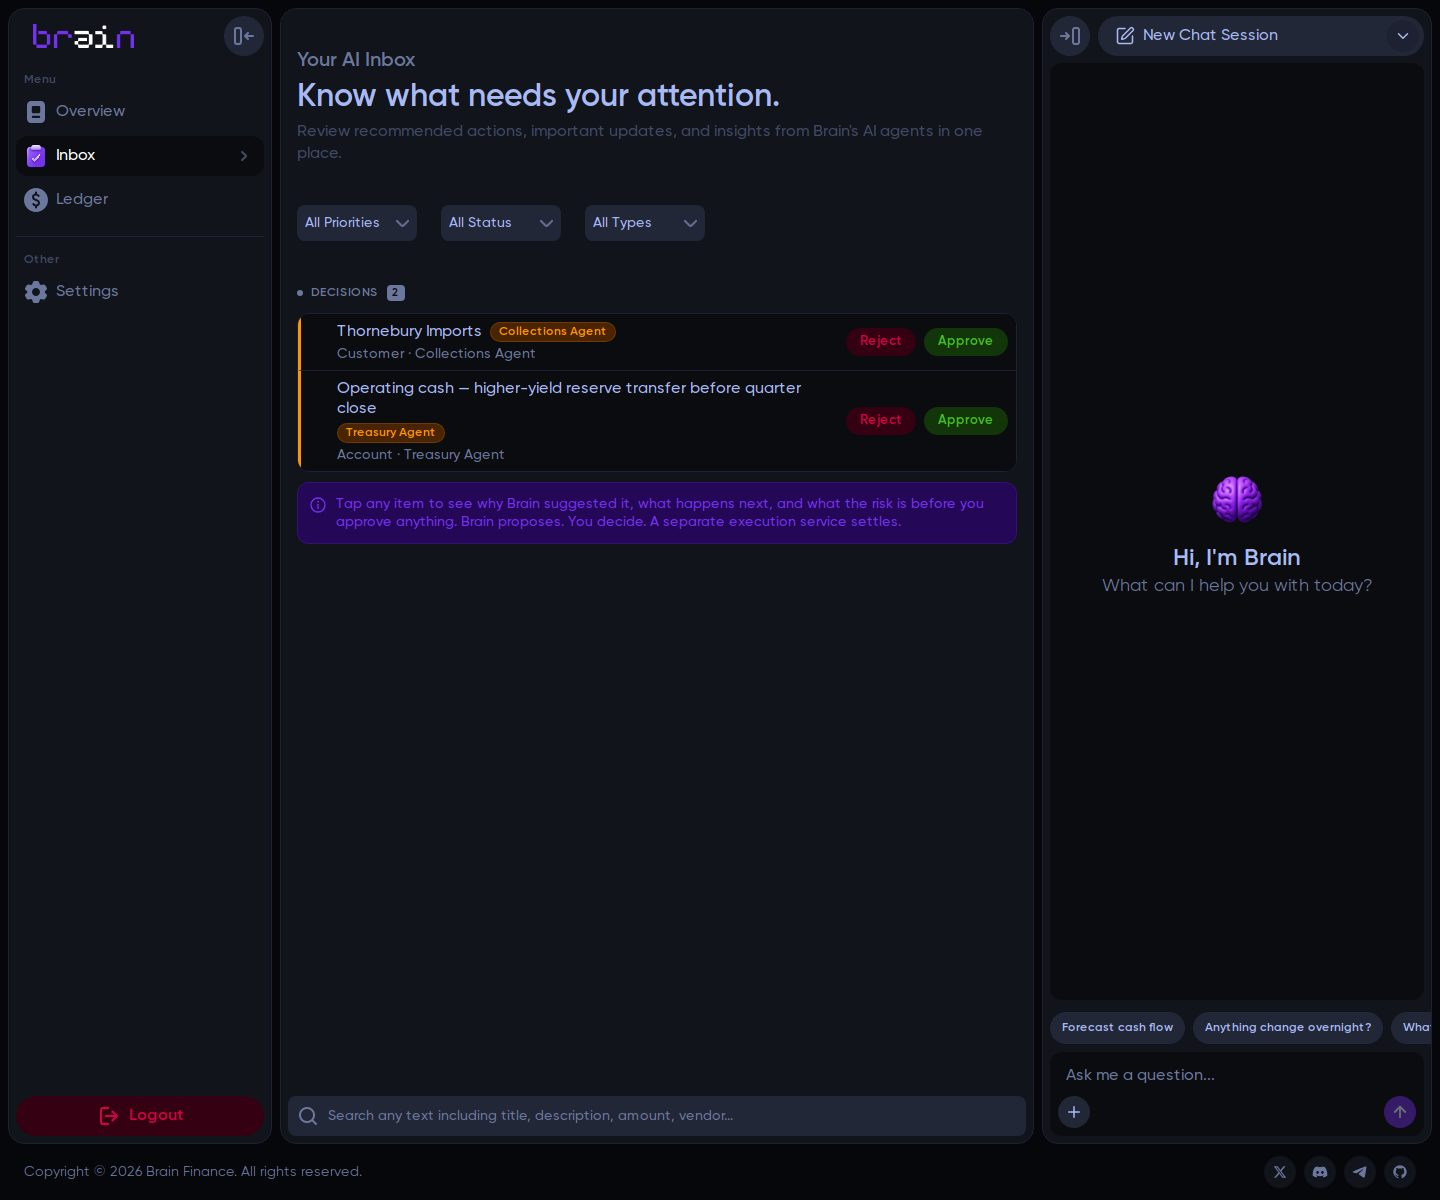
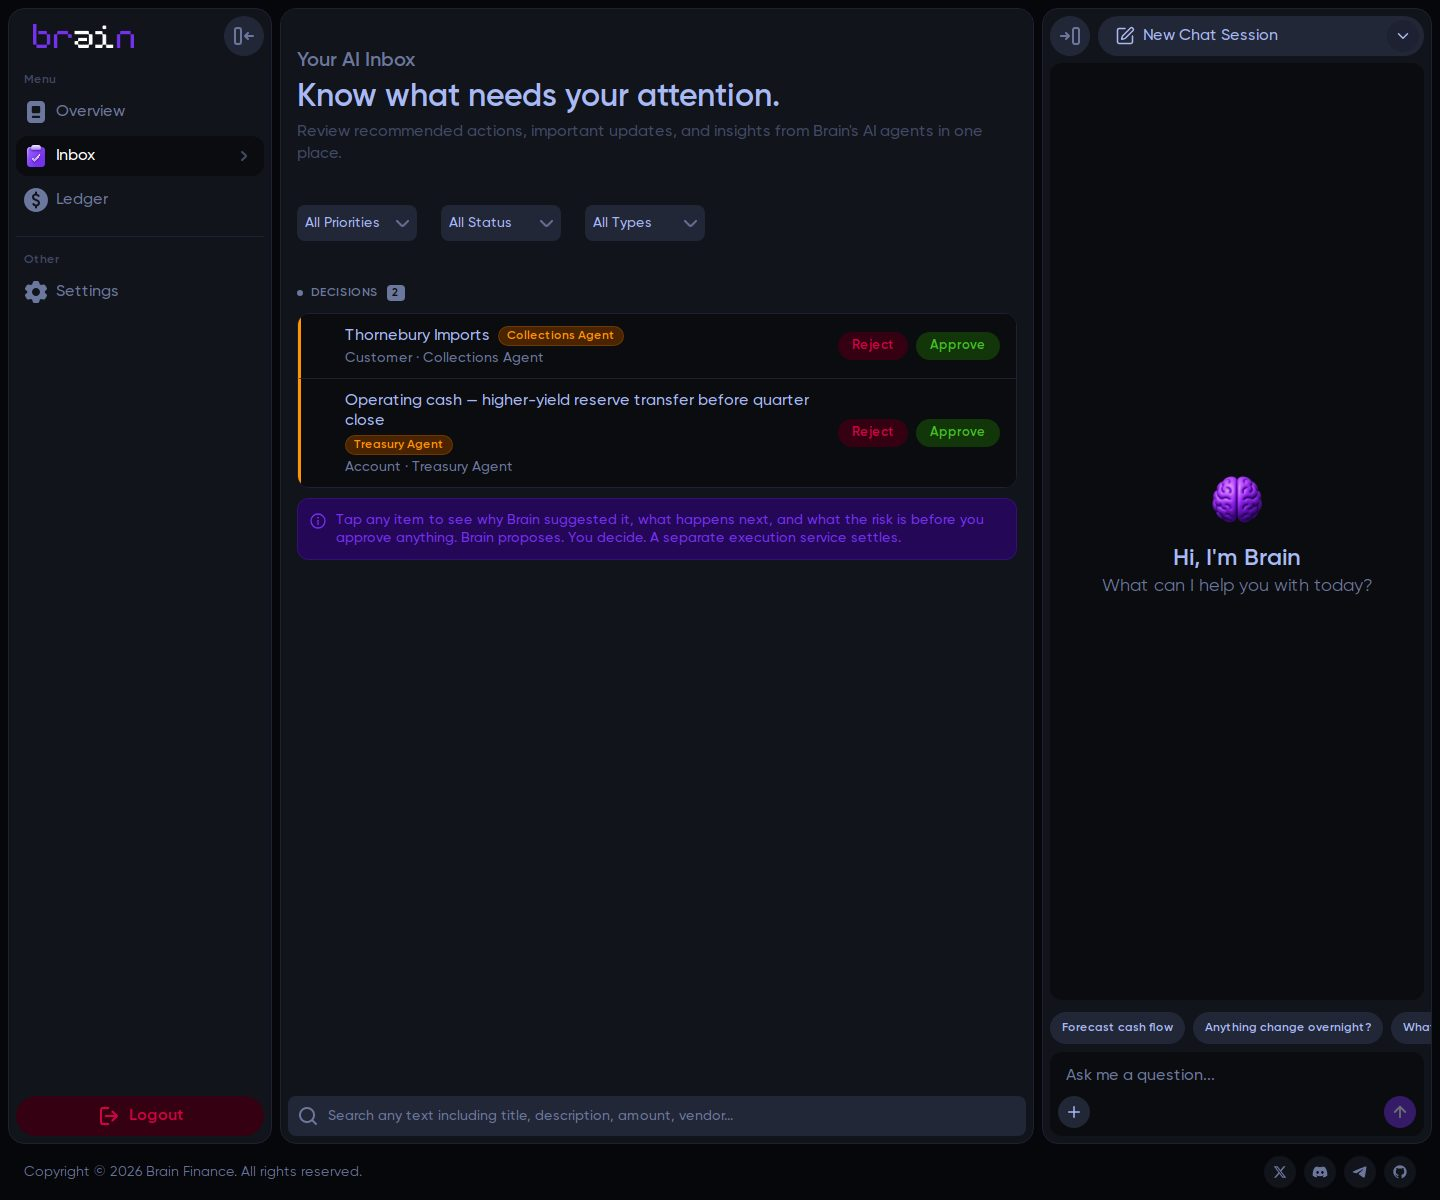
Implement row record type updates and update QA measurement script
Replit-Commit-Author: Agent

Changed region(s): [[0.1875, 0.2467, 0.7188, 0.4933], [0.5625, 0.2467, 0.7188, 0.3083]]

diff --git a/client/src/pages/RulesPanel.tsx b/client/src/pages/RulesPanel.tsx
@@ -124,7 +124,7 @@ function Section({
     <div className="bg-[#0a0c10] flex flex-col overflow-hidden relative rounded-[16px] w-full">
       <div className="flex flex-col items-start relative w-full">
         {count === 0 && empty ? (
-          <div className="flex gap-[16px] items-center p-[8px] relative rounded-[8px] shrink-0 w-full">
+          <div className="flex gap-[12px] items-center px-[16px] py-[12px] relative rounded-[8px] shrink-0 w-full">
             {empty}
           </div>
         ) : (
@@ -145,7 +145,7 @@ function AutomationRow({ rule }: { rule: AutoRule }) {
   return (
     <div
       data-testid={`row-automation-${rule.id}`}
-      className="flex gap-[16px] items-center p-[8px] relative shrink-0 w-full bg-[#0a0c10] transition-colors border-b border-solid border-[#1d2132] last:border-b-0 hover:bg-[#11141b] cursor-pointer"
+      className="flex gap-[12px] items-center px-[16px] py-[12px] relative shrink-0 w-full bg-[#0a0c10] transition-colors border-b border-solid border-[#1d2132] last:border-b-0 hover:bg-[#11141b] cursor-pointer"
     >
       <button
         type="button"
@@ -188,7 +188,7 @@ function GuardrailRow({ rule }: { rule: AutoRule }) {
   return (
     <div
       data-testid={`row-guardrail-${rule.id}`}
-      className="flex gap-[16px] items-center p-[8px] relative shrink-0 w-full bg-[#0a0c10] transition-colors border-b border-solid border-[#1d2132] last:border-b-0 hover:bg-[#11141b] cursor-pointer"
+      className="flex gap-[12px] items-center px-[16px] py-[12px] relative shrink-0 w-full bg-[#0a0c10] transition-colors border-b border-solid border-[#1d2132] last:border-b-0 hover:bg-[#11141b] cursor-pointer"
     >
       <button
         type="button"
@@ -232,7 +232,7 @@ function AlwaysOnRow({ rule }: { rule: AutoRule }) {
   return (
     <div
       data-testid={`row-alwayson-${rule.id}`}
-      className="flex gap-[16px] items-center p-[8px] relative shrink-0 w-full bg-[#0a0c10] transition-colors border-b border-solid border-[#1d2132] last:border-b-0 hover:bg-[#11141b] cursor-pointer"
+      className="flex gap-[12px] items-center px-[16px] py-[12px] relative shrink-0 w-full bg-[#0a0c10] transition-colors border-b border-solid border-[#1d2132] last:border-b-0 hover:bg-[#11141b] cursor-pointer"
     >
       <img src={shieldKeyIcon} alt="shield" className="shrink-0 w-[20px] h-[20px]" />
       <button
@@ -274,21 +274,21 @@ function PolicySection() {
           </p>
         )}
         {isLoading && (
-          <div className="flex gap-[16px] items-center p-[8px] relative rounded-[8px] shrink-0 w-full bg-[#0a0c10]">
+          <div className="flex gap-[12px] items-center px-[16px] py-[12px] relative rounded-[8px] shrink-0 w-full bg-[#0a0c10]">
             <p className="flex-1 [font-family:'Gilroy',sans-serif] font-medium leading-[20px] min-w-px text-[#6c779d] text-[16px]">
               Loading your active policy from Brain…
             </p>
           </div>
         )}
         {!isLoading && isError && (
-          <div className="flex gap-[16px] items-center p-[8px] relative rounded-[8px] shrink-0 w-full bg-[#0a0c10]">
+          <div className="flex gap-[12px] items-center px-[16px] py-[12px] relative rounded-[8px] shrink-0 w-full bg-[#0a0c10]">
             <p className="flex-1 [font-family:'Gilroy',sans-serif] font-medium leading-[20px] min-w-px text-[#6c779d] text-[16px]">
               Couldn't load your active policy from Brain right now.
             </p>
           </div>
         )}
         {!isLoading && !isError && rules.length === 0 && (
-          <div className="flex gap-[16px] items-center p-[8px] relative rounded-[8px] shrink-0 w-full bg-[#0a0c10]">
+          <div className="flex gap-[12px] items-center px-[16px] py-[12px] relative rounded-[8px] shrink-0 w-full bg-[#0a0c10]">
             <p className="flex-1 [font-family:'Gilroy',sans-serif] font-medium leading-[20px] min-w-px text-[#6c779d] text-[16px]">
               No active policy found for your account yet.
             </p>

diff --git a/client/src/pages/VendorsPanel.tsx b/client/src/pages/VendorsPanel.tsx
@@ -31,7 +31,7 @@ function VendorRow({
       type="button"
       onClick={onClick}
       data-testid={`row-vendor-${vendor.id}`}
-      className="flex gap-[16px] items-center p-[8px] relative shrink-0 w-full bg-[#0a0c10] transition-colors border-b border-solid border-[#1d2132] last:border-b-0 hover:bg-[#11141b] cursor-pointer text-left focus:outline-none focus-visible:ring-2 focus-visible:ring-[#7631EE]"
+      className="flex gap-[12px] items-center px-[16px] py-[12px] relative shrink-0 w-full bg-[#0a0c10] transition-colors border-b border-solid border-[#1d2132] last:border-b-0 hover:bg-[#11141b] cursor-pointer text-left focus:outline-none focus-visible:ring-2 focus-visible:ring-[#7631EE]"
     >
       <div className="flex flex-1 flex-col items-start justify-center min-w-px relative gap-[4px]">
         <p className="[font-family:'Gilroy',sans-serif] font-medium leading-[20px] text-[#a8b9f4] text-[16px] whitespace-nowrap">
@@ -368,13 +368,13 @@ export function VendorsPanel() {
 
       <div className="w-full">
         {isLoading ? (
-          <div className="flex gap-[16px] items-center p-[8px] relative rounded-[8px] shrink-0 w-full bg-[#0a0c10]">
+          <div className="flex gap-[12px] items-center px-[16px] py-[12px] relative rounded-[8px] shrink-0 w-full bg-[#0a0c10]">
             <p className="flex-1 [font-family:'Gilroy',sans-serif] font-medium leading-[20px] min-w-px text-[#6c779d] text-[16px]">
               Loading vendors from Brain...
             </p>
           </div>
         ) : isError ? (
-          <div className="flex gap-[16px] items-center p-[8px] relative rounded-[8px] shrink-0 w-full bg-[#0a0c10]">
+          <div className="flex gap-[12px] items-center px-[16px] py-[12px] relative rounded-[8px] shrink-0 w-full bg-[#0a0c10]">
             <p className="flex-1 [font-family:'Gilroy',sans-serif] font-medium leading-[20px] min-w-px text-[#d20344] text-[16px]">
               Couldn't reach Brain to load vendors. Try again shortly.
             </p>
@@ -403,7 +403,7 @@ export function VendorsPanel() {
             {/* Rows */}
             <div>
               {tabVendors.length === 0 ? (
-                <div className="flex gap-[16px] items-center p-[8px] relative shrink-0 w-full">
+                <div className="flex gap-[12px] items-center px-[16px] py-[12px] relative shrink-0 w-full">
                   <p className="flex-1 [font-family:'Gilroy',sans-serif] font-medium leading-[20px] min-w-px text-[#6c779d] text-[16px]">
                     {activeTab === "Needs Review" && "No vendors under review. Brain flags new or unusual counterparties here."}
                     {activeTab === "New" && "No new vendors detected yet."}

diff --git a/client/src/components/CashFlowTab.tsx b/client/src/components/CashFlowTab.tsx
@@ -394,13 +394,13 @@ export function CashFlowTab({ format, onOpenTx }: { format: Format; onOpenTx: (t
 
       <WidgetCard title="Cash Flow" count={settling && rows.length === 0 ? undefined : rows.length}>
         {settling && rows.length === 0 ? (
-          <div className="flex gap-[16px] items-center p-[8px] rounded-[8px] w-full bg-[#0a0c10]">
+          <div className="flex gap-[12px] items-center px-[16px] py-[12px] rounded-[8px] w-full bg-[#0a0c10]">
             <p className="flex-1 [font-family:'Gilroy',sans-serif] font-medium leading-[20px] text-[#6c779d] text-[16px]">
               Loading…
             </p>
           </div>
         ) : rows.length === 0 ? (
-          <div className="flex gap-[16px] items-center p-[8px] rounded-[8px] w-full bg-[#0a0c10]" data-testid="text-cashflow-empty">
+          <div className="flex gap-[12px] items-center px-[16px] py-[12px] rounded-[8px] w-full bg-[#0a0c10]" data-testid="text-cashflow-empty">
             <p className="flex-1 [font-family:'Gilroy',sans-serif] font-medium leading-[20px] text-[#6c779d] text-[16px]">
               {txFailed && invFailed
                 ? "Nothing could be loaded, so there is nothing to show here yet."
@@ -433,7 +433,7 @@ export function CashFlowTab({ format, onOpenTx }: { format: Format; onOpenTx: (t
                       : undefined
                   }
                   className={[
-                    "flex gap-[16px] items-center p-[8px] w-full bg-[#0a0c10] transition-colors",
+                    "flex gap-[12px] items-center px-[16px] py-[12px] w-full bg-[#0a0c10] transition-colors",
                     "outline-none focus-visible:ring-2 focus-visible:ring-[#7631EE]",
                     "border-b border-solid border-[#1d2132] last:border-b-0",
                     open ? "hover:bg-[#11141b] cursor-pointer" : "",

diff --git a/client/src/pages/FinancesPage.tsx b/client/src/pages/FinancesPage.tsx
@@ -283,7 +283,7 @@ export function FinancesPage() {
                         },
                       }
                     : {})}
-                  className={`flex gap-[16px] items-center p-[8px] relative shrink-0 w-full bg-[#0a0c10] transition-colors border-b border-solid border-[#1d2132] last:border-b-0 ${clickable ? "hover:bg-[#11141b] cursor-pointer" : ""}`}
+                  className={`flex gap-[12px] items-center px-[16px] py-[12px] relative shrink-0 w-full bg-[#0a0c10] transition-colors border-b border-solid border-[#1d2132] last:border-b-0 ${clickable ? "hover:bg-[#11141b] cursor-pointer" : ""}`}
                 >
                   <div className="flex flex-1 flex-col items-start justify-center min-w-px relative gap-[4px]">
                     <p className="[font-family:'Gilroy',sans-serif] font-medium leading-[20px] text-[#a8b9f4] text-[16px] whitespace-nowrap">{acc.name}</p>
@@ -305,7 +305,7 @@ export function FinancesPage() {
               );
             })}
             {accounts.length === 0 && (
-              <div className="flex gap-[16px] items-center p-[8px] relative rounded-[8px] shrink-0 w-full bg-[#0a0c10]">
+              <div className="flex gap-[12px] items-center px-[16px] py-[12px] relative rounded-[8px] shrink-0 w-full bg-[#0a0c10]">
                 {/* Three states, not two. An unreachable ledger used to render the
                     same "No connected accounts yet" as a genuinely empty one, which
                     tells someone with accounts that they have none. */}

diff --git a/client/src/components/TierRowList.tsx b/client/src/components/TierRowList.tsx
@@ -91,7 +91,7 @@ export const TierRow = ({ row }: { row: TierRowModel }) => {
   const accent = ROW_ACCENT[row.tier];
   return (
     <div
-      className={`flex flex-col sm:flex-row gap-[12px] items-start sm:items-center justify-between px-[8px] py-[8px] w-full bg-[#0a0c10] transition-colors hover:bg-[#11141b] border-b border-solid border-[#1d2132] last:border-b-0 ${
+      className={`flex flex-col sm:flex-row gap-[12px] items-start sm:items-center justify-between px-[16px] py-[12px] w-full bg-[#0a0c10] transition-colors hover:bg-[#11141b] border-b border-solid border-[#1d2132] last:border-b-0 ${
         accent ? "border-l-[3px]" : ""
       } ${row.onOpenDetail ? "cursor-pointer" : ""}`}
       style={accent ? { borderLeftColor: accent } : undefined}

diff --git a/.agents/memory/row-record-type-ramp.md b/.agents/memory/row-record-type-ramp.md
@@ -1,56 +1,65 @@
 ---
-name: Row-record type ramp and height
-description: The Security settings table is the canonical typography AND geometry for row records; the 40px stack that makes heights match, and why line-height is load-bearing.
+name: Row-record type ramp and row chrome
+description: Two settings surfaces are the reference for every row record — Security for the 40px text stack, Profile for the 64px row box; why line-height is load-bearing and only baseline rows are pinned.
 ---
 
-## The rule
+## There are TWO references, and they disagree about padding
 
-The table on the Security settings subpage is the reference for every row record
-in the app (Overview, Inbox, Ledger tabs, Sources, Audit Log). A record is:
+Treating either one as "the row spec" gets you the wrong answer:
 
-- title:   `font-medium` `16px` `#a8b9f4` `leading-[20px]`
-- gap:     `4px`
-- subtext: `font-medium` `14px` `#6c779d` `leading-[16px]`
+- **Text stack → the Security settings table.** 16px/20 title + 4px gap +
+  14px/16 subtext = a **40px stack**.
+- **Row chrome → the Profile settings rows (Identity card).** That same 40px
+  stack in 12px vertical / 16px horizontal padding, 12px gap between the row's
+  columns = a **64px row box**.
 
-which makes the text stack exactly **40px**. Titles are **medium, never
-semibold** — several surfaces drifted to `font-semibold` independently, and that
-is the most common way the ramp breaks.
+Security's own rows have **zero** padding — their breathing room comes from the
+parent card's gaps — so Security is never the chrome reference. Overview, Inbox
+and all four Ledger tabs follow the Profile chrome over the Security stack.
 
-**Why:** the row surfaces were built at different times from different Figma
-frames and drifted apart (13/14/15/16px titles, two greys, both weights). The
-Security table was picked as the single reference so "which one is right?" has
-an answer.
+**Why:** these surfaces were built at different times from different Figma
+frames and drifted apart (13/14/15/16px titles, two greys, both weights, three
+paddings). Naming one reference per concern gives "which one is right?" an
+answer.
+
+## Titles are medium, never semibold
+
+The single most common way the ramp breaks: a surface drifts to `font-semibold`
+on the title. Every row title is medium.
 
 ## Line-height is load-bearing, not cosmetic
 
-Do not "improve" the subtext leading to 18–20px because wrapped text looks
-tight. 20 + 4 + 16 is what produces the 40px stack; changing it silently breaks
-height parity with the reference everywhere.
+Do not relax the subtext leading to 18–20px because wrapped text looks tight.
+20 + 4 + 16 is precisely what produces the 40px stack, and changing it silently
+breaks height parity everywhere.
 
-**Why:** this was learned the hard way — the leading was relaxed to 18/20px in a
-typography pass for exactly that readability reason, and it had to be reverted
-one step later when the heights were asked to match. The cramped-wrapping
-complaint is real but it is the cost of the reference geometry.
+**Why:** learned the hard way — the leading was relaxed for exactly that
+readability reason in one pass and had to be reverted in the next when the
+heights were asked to match. The cramped-wrapping complaint is real; it is the
+cost of the reference geometry.
 
-## Matching "height" means matching the stack, not the outer box
+**How to apply:** also watch for anything in the *title row* taller than 20px.
+An inline pill with `py-[3px]` plus a 1px border is 22px and quietly inflates
+the whole stack to 42.
 
-The Security row's outer box is 40px with **zero** padding; its breathing room
-comes from the parent card's `p-16` + `gap-16`, so each row occupies a 56px slot.
-The other lists use `p-[8px]` + a bottom border instead. Give them the 40px
-stack and they land on the same 56px slot automatically.
-
-Do **not** force their outer box to a literal 40px — that needs zero vertical
-padding and makes bordered rows collide.
-
-**How to apply:** watch for anything in the title row taller than 20px. An
-inline pill with `py-[3px]` plus a 1px border is 22px and quietly inflates the
-whole stack to 42; `py-[2px]` brings it back to 20.
-
-## Only the baseline row is 40px
+## Only the baseline row is pinned
 
 Rows grow on purpose: a wrapping title, a third "note" line, the Rules tab's
-paused-rule banner. Pin the *shortest* row of a surface, never all of them —
-asserting a fixed height on every row is asserting the UI must clip its content.
-`scripts/qa-measure-row-heights.mjs` enforces exactly this and stubs the
-proposals GET, because Overview/Inbox have no proposals in the demo tenant and
-measuring an empty state proves nothing.
+paused-rule banner. Assert the **shortest** row of a surface, never all of them
+— pinning a fixed height on every row asserts the UI must clip its own content.
+
+Subtract borders before comparing: these lists separate rows with a 1px
+`border-b` on the row itself, whereas Profile uses a separate divider element,
+so raw bounding boxes read 65 vs 64 for rows that genuinely match.
+
+`scripts/qa-measure-row-heights.mjs` enforces all of the above, and stubs the
+proposals GET because Overview/Inbox have none in the demo tenant — measuring an
+empty state would prove nothing about the rows it is meant to check.
+
+## What is deliberately NOT copied from Profile
+
+- **The 40px circle icon and chevron button.** Those are content and affordance,
+  not spacing. Giving a ledger transaction an icon would be inventing meaning.
+- **The inset divider.** Profile insets its divider 16px; the lists run a
+  full-width `border-b`. This is a known, accepted difference — changing it is
+  structural (it interacts with `last:border-b-0`), not a spacing tweak.
